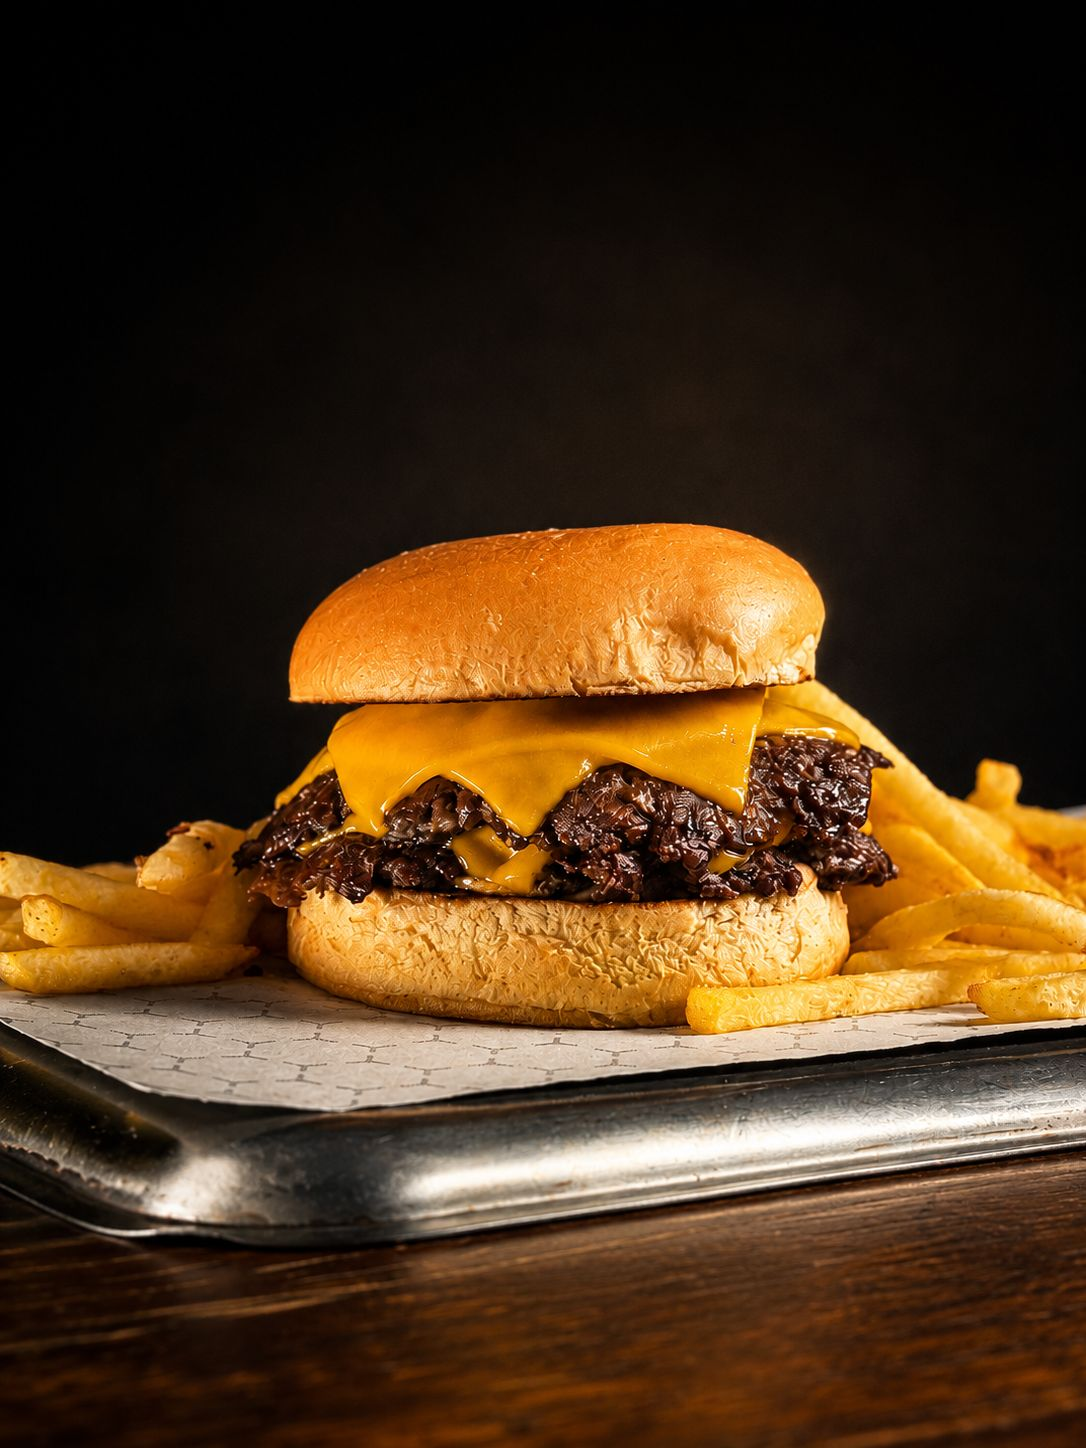
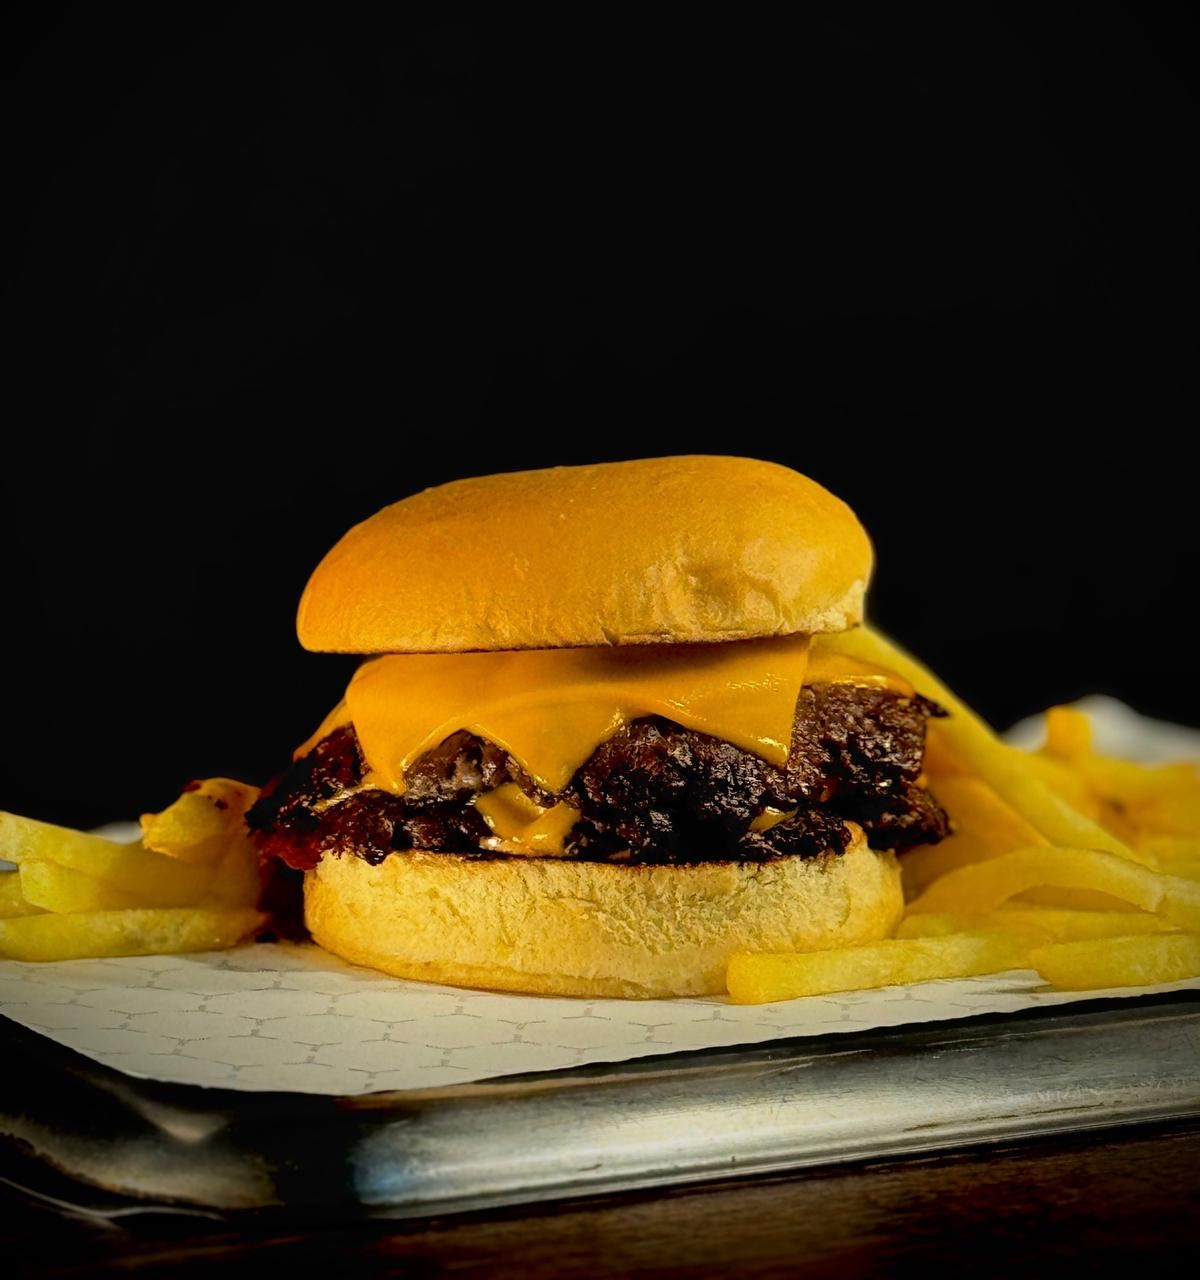
refactor: unico CTA en el hero y combo-per-burger

diff --git a/src/components/CartDrawer.tsx b/src/components/CartDrawer.tsx
@@ -1,6 +1,6 @@
 import { useState } from "react"
 import { motion, AnimatePresence } from "framer-motion"
-import { X, Minus, Plus, Trash2, MessageCircle, Tag } from "lucide-react"
+import { X, Minus, Plus, Trash2, MessageCircle, Tag, Check } from "lucide-react"
 import { Button } from "@/components/ui/button"
 import { drinks } from "@/data/burgers"
 import type { BurgerSize, CartItem, CartDrinkItem, DrinkItem, OrderData } from "@/types"
@@ -55,6 +55,8 @@ interface CartDrawerProps {
   onClearCart: () => void
 }
 
+type ComboState = "pending" | "added" | "declined"
+
 export function CartDrawer({
   open,
   onClose,
@@ -64,7 +66,7 @@ export function CartDrawer({
   onUpdateQuantity,
   onRemoveItem,
   onAddDrink,
-  onUpdateDrinkQuantity,
+  onUpdateDrinkQuantity: _onUpdateDrinkQuantity,
   onRemoveDrink: _onRemoveDrink,
   onClearCart,
 }: CartDrawerProps) {
@@ -72,17 +74,14 @@ export function CartDrawer({
   const [deliveryMethod, setDeliveryMethod] = useState<"delivery" | "pickup">("delivery")
   const [form, setForm] = useState({ customerName: "", phone: "", address: "", notes: "" })
   const [phoneError, setPhoneError] = useState("")
-  const [selectedDrinkId, setSelectedDrinkId] = useState(drinks[0]?.id ?? "")
+  const [burgerCombos, setBurgerCombos] = useState<Record<string, ComboState>>({})
+  const [comboSelectedDrinks, setComboSelectedDrinks] = useState<Record<string, string>>({})
 
   const PHONE_REGEX = /^09\d[\s]?\d{3}[\s]?\d{3}$/
 
   const discount = deliveryMethod === "pickup" ? Math.round(total * TAKEAWAY_DISCOUNT) : 0
   const finalTotal = total - discount
   const isEmpty = items.length === 0 && cartDrinks.length === 0
-
-  const selectedDrink = drinks.find((d) => d.id === selectedDrinkId) ?? drinks[0]
-  const drinkInCart = cartDrinks.find((d) => d.drink.id === selectedDrinkId)
-  const anyDrinkInCart = cartDrinks.length > 0
 
   const takeawaySavings = Math.round(total * TAKEAWAY_DISCOUNT)
 
@@ -166,89 +165,107 @@ export function CartDrawer({
                     </div>
                   ) : (
                     <>
-                      {/* Burger items */}
                       {items.length > 0 && (
                         <div className="space-y-3">
-                          {items.map((item) => (
-                            <div key={`${item.burger.id}-${item.size}`} className="flex gap-3 border border-white/8 p-4 bg-white/3">
-                              <img
-                                src={item.burger.image}
-                                alt={item.burger.name}
-                                className="w-14 h-14 object-cover shrink-0"
-                              />
-                              <div className="flex-1 min-w-0">
-                                <p className="font-black text-white text-sm">{item.burger.name}</p>
-                                <p className="text-white/40 text-xs uppercase tracking-wider">{SIZE_LABEL[item.size]}</p>
-                                <div className="flex items-center gap-2 mt-2">
-                                  <button onClick={() => onUpdateQuantity(item.burger.id, item.size, item.quantity - 1)} className="text-white/50 hover:text-white w-6 h-6 border border-white/15 flex items-center justify-center transition-colors">
-                                    <Minus size={12} />
-                                  </button>
-                                  <span className="text-white text-sm font-bold w-4 text-center">{item.quantity}</span>
-                                  <button onClick={() => onUpdateQuantity(item.burger.id, item.size, item.quantity + 1)} className="text-white/50 hover:text-white w-6 h-6 border border-white/15 flex items-center justify-center transition-colors">
-                                    <Plus size={12} />
-                                  </button>
+                          {items.map((item) => {
+                            const key = `${item.burger.id}-${item.size}`
+                            const comboState = burgerCombos[key] ?? "pending"
+                            const selectedDrinkId = comboSelectedDrinks[key] ?? drinks[0]?.id ?? ""
+                            const comboDrink = drinks.find((d) => d.id === selectedDrinkId) ?? drinks[0]
+
+                            return (
+                              <div key={key}>
+                                {/* Burger card */}
+                                <div className="flex gap-3 border border-white/8 p-4 bg-white/3">
+                                  <img
+                                    src={item.burger.image}
+                                    alt={item.burger.name}
+                                    className="w-14 h-14 object-cover shrink-0"
+                                  />
+                                  <div className="flex-1 min-w-0">
+                                    <p className="font-black text-white text-sm">{item.burger.name}</p>
+                                    <p className="text-white/40 text-xs uppercase tracking-wider">{SIZE_LABEL[item.size]}</p>
+                                    <div className="flex items-center gap-2 mt-2">
+                                      <button onClick={() => onUpdateQuantity(item.burger.id, item.size, item.quantity - 1)} className="text-white/50 hover:text-white w-6 h-6 border border-white/15 flex items-center justify-center transition-colors">
+                                        <Minus size={12} />
+                                      </button>
+                                      <span className="text-white text-sm font-bold w-4 text-center">{item.quantity}</span>
+                                      <button onClick={() => onUpdateQuantity(item.burger.id, item.size, item.quantity + 1)} className="text-white/50 hover:text-white w-6 h-6 border border-white/15 flex items-center justify-center transition-colors">
+                                        <Plus size={12} />
+                                      </button>
+                                    </div>
+                                  </div>
+                                  <div className="flex flex-col items-end justify-between">
+                                    <button onClick={() => onRemoveItem(item.burger.id, item.size)} className="text-white/20 hover:text-red-400 transition-colors">
+                                      <Trash2 size={14} />
+                                    </button>
+                                    <span className="text-white font-black text-sm">${item.burger.prices[item.size] * item.quantity}</span>
+                                  </div>
                                 </div>
+
+                                {/* Combo — pending */}
+                                {comboState === "pending" && (
+                                  <div className="border border-t-0 border-white/8 bg-white/[0.02] p-3">
+                                    <div className="flex items-center gap-2 mb-2">
+                                      <span className="text-sm">🥤</span>
+                                      <p className="text-white/70 text-[11px] font-black uppercase tracking-widest">Completá tu combo</p>
+                                      <p className="text-white/40 text-[10px]">+${comboDrink?.price}</p>
+                                    </div>
+                                    <div className="flex items-center gap-2">
+                                      <div className="flex border border-white/10 flex-1">
+                                        {drinks.map((d) => (
+                                          <button
+                                            key={d.id}
+                                            onClick={() => setComboSelectedDrinks((prev) => ({ ...prev, [key]: d.id }))}
+                                            className={`flex-1 py-1.5 text-[10px] font-bold uppercase tracking-wider transition-all ${
+                                              selectedDrinkId === d.id
+                                                ? "bg-white/10 text-white"
+                                                : "text-white/40 hover:text-white/60"
+                                            }`}
+                                          >
+                                            {d.name.replace("Coca-Cola ", "")}
+                                          </button>
+                                        ))}
+                                      </div>
+                                      <button
+                                        onClick={() => {
+                                          if (comboDrink) {
+                                            onAddDrink(comboDrink)
+                                            setBurgerCombos((prev) => ({ ...prev, [key]: "added" }))
+                                          }
+                                        }}
+                                        className="shrink-0 text-[10px] font-black border border-white/20 text-white/70 hover:border-white hover:text-white px-3 py-1.5 transition-all uppercase tracking-wider"
+                                      >
+                                        + Agregar
+                                      </button>
+                                      <button
+                                        onClick={() => setBurgerCombos((prev) => ({ ...prev, [key]: "declined" }))}
+                                        className="shrink-0 text-[10px] text-white/25 hover:text-white/40 transition-colors"
+                                      >
+                                        No gracias
+                                      </button>
+                                    </div>
+                                  </div>
+                                )}
+
+                                {/* Combo — agregado */}
+                                {comboState === "added" && (
+                                  <motion.div
+                                    initial={{ opacity: 0, y: -4 }}
+                                    animate={{ opacity: 1, y: 0 }}
+                                    transition={{ duration: 0.25 }}
+                                    className="border border-t-0 border-green-500/30 bg-green-500/5 px-4 py-2 flex items-center gap-2"
+                                  >
+                                    <Check size={11} className="text-green-400 shrink-0" />
+                                    <span className="text-green-400 text-[11px] font-black uppercase tracking-wider">Agregado</span>
+                                    <span className="text-white/40 text-[11px]">— {comboDrink?.name}</span>
+                                  </motion.div>
+                                )}
                               </div>
-                              <div className="flex flex-col items-end justify-between">
-                                <button onClick={() => onRemoveItem(item.burger.id, item.size)} className="text-white/20 hover:text-red-400 transition-colors">
-                                  <Trash2 size={14} />
-                                </button>
-                                <span className="text-white font-black text-sm">${item.burger.prices[item.size] * item.quantity}</span>
-                              </div>
-                            </div>
-                          ))}
+                            )
+                          })}
                         </div>
                       )}
-
-                      {/* Combo bebida card */}
-                      <div className="border border-white/10 bg-white/[0.03] p-4">
-                        <div className="flex items-center gap-2 mb-3">
-                          <span className="text-base">🥤</span>
-                          <div>
-                            <p className="text-white/80 text-xs font-black uppercase tracking-widest">Completá tu combo</p>
-                            <p className="text-white/40 text-[11px]">Sumá una Coca por solo ${selectedDrink?.price}</p>
-                          </div>
-                        </div>
-
-                        <div className="flex items-center gap-3">
-                          {/* Selector Común / Zero */}
-                          <div className="flex border border-white/10 flex-1">
-                            {drinks.map((d) => (
-                              <button
-                                key={d.id}
-                                onClick={() => setSelectedDrinkId(d.id)}
-                                className={`flex-1 py-2 text-xs font-bold uppercase tracking-wider transition-all ${
-                                  selectedDrinkId === d.id
-                                    ? "bg-white/10 text-white"
-                                    : "text-white/40 hover:text-white/60"
-                                }`}
-                              >
-                                {d.name.replace("Coca-Cola ", "")}
-                              </button>
-                            ))}
-                          </div>
-
-                          {/* Botón agregar / agregada */}
-                          {drinkInCart ? (
-                            <div className="flex items-center gap-2 shrink-0">
-                              <button onClick={() => onUpdateDrinkQuantity(drinkInCart.drink.id, drinkInCart.quantity - 1)} className="text-white/50 hover:text-white w-6 h-6 border border-white/15 flex items-center justify-center">
-                                <Minus size={11} />
-                              </button>
-                              <span className="text-white text-sm font-bold w-4 text-center">{drinkInCart.quantity}</span>
-                              <button onClick={() => onUpdateDrinkQuantity(drinkInCart.drink.id, drinkInCart.quantity + 1)} className="text-white/50 hover:text-white w-6 h-6 border border-white/15 flex items-center justify-center">
-                                <Plus size={11} />
-                              </button>
-                            </div>
-                          ) : (
-                            <button
-                              onClick={() => selectedDrink && onAddDrink(selectedDrink)}
-                              className="shrink-0 text-xs font-black border border-white/20 text-white/70 hover:border-white hover:text-white px-3 py-2 transition-all uppercase tracking-wider"
-                            >
-                              {anyDrinkInCart ? "Cambiar" : "+ Agregar"}
-                            </button>
-                          )}
-                        </div>
-                      </div>
                     </>
                   )}
                 </div>

diff --git a/src/components/Hero.tsx b/src/components/Hero.tsx
@@ -1,5 +1,5 @@
 import { motion } from "framer-motion"
-import { ArrowDown, ShoppingBag } from "lucide-react"
+import { ArrowDown } from "lucide-react"
 
 interface HeroProps {
   onOrderClick: () => void
@@ -45,28 +45,18 @@ export function Hero({ onOrderClick, onMenuClick }: HeroProps) {
           initial={{ opacity: 0, y: 20 }}
           animate={{ opacity: 1, y: 0 }}
           transition={{ duration: 0.8, delay: 0.4 }}
-          className="flex flex-col sm:flex-row gap-4 justify-center items-center mt-10"
+          className="flex justify-center items-center mt-10"
         >
-          {/* Primary CTA — pulsing ring + bold */}
           <div className="relative">
             <span className="absolute inset-0 rounded-none animate-ping bg-white/20 duration-1000" />
             <button
-              onClick={onOrderClick}
+              onClick={onMenuClick}
               className="relative flex items-center gap-3 bg-white text-black px-10 py-4 text-base font-black uppercase tracking-widest hover:bg-white/90 active:scale-95 transition-all duration-150 shadow-[0_0_40px_rgba(255,255,255,0.25)]"
             >
-              <ShoppingBag size={18} />
-              Empezar Pedido
+              <ArrowDown size={18} />
+              Ver Menú
             </button>
           </div>
-
-          {/* Secondary CTA */}
-          <button
-            onClick={onMenuClick}
-            className="flex items-center gap-2 border border-white/20 text-white/50 px-10 py-4 text-base font-bold uppercase tracking-widest hover:border-white/40 hover:text-white/70 active:scale-95 transition-all duration-200"
-          >
-            <ArrowDown size={16} />
-            Ver Menú
-          </button>
         </motion.div>
 
         <motion.p
